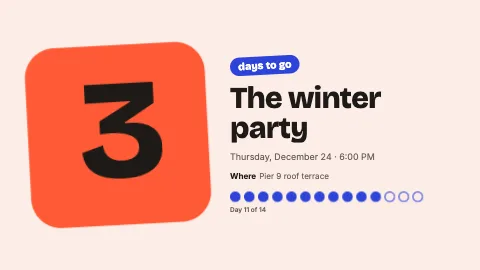
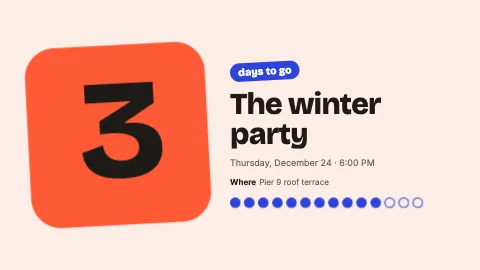
feat(countdown): the number the one lit thing; no invented figures; Night's hairline ring and ruled facts
The board's countdown (#news-design), shown in Night: the number in the accent, the one lit thing, in a hairline ring
with no ping cap; no "//" before the unit; the unit and the hours in body type; the title in the text colour; the
facts as ruled rows, the label beside the value. In every look: no invented framing (no percentage, no "Day 3 of 14";
the bar or ring says how far by itself, and only a beaten record has a caption; Corporate's scale runs from Today),
hours written without zero-padding ("3 h 0 min"; Poster's flip-clock tiles keep two digits), and the built-in fact
labels in sentence case like typed ones. Countdown 1.2.0.

Pi measurement waived by the owner (2026-11-26).

Changed region(s): [[0.4688, 0.1778, 0.9062, 0.8]]

diff --git a/templates/countdown/test/browser.test.ts b/templates/countdown/test/browser.test.ts
@@ -75,16 +75,16 @@ describe('countdown (#198)', () => {
     const done = { state: 'done', number: null, rest: null, unit: null, done: "It's here!" };
     const progress = (p: string | null) => ({ detail: 'Sunday, November 29 · 6:00 PM', progress: p });
     expect(seen).toEqual({
-      '12 days before, in days': { ...count('12', null), ...progress('Day 2 of 14') },
-      'in days and hours': { ...count('12', '03 h'), ...progress('Day 2 of 14') },
-      'in days, hours and minutes': { ...count('12', '03 h 00 min'), ...progress('Day 2 of 14') },
+      '12 days before, in days': { ...count('12', null), ...progress(null) },
+      'in days and hours': { ...count('12', '3 h'), ...progress(null) },
+      'in days, hours and minutes': { ...count('12', '3 h 0 min'), ...progress(null) },
       // On the day itself: no days to go, and the progress full.
-      'a minute and a half before, in days': { ...count('0', null), ...progress('Day 14 of 14') },
+      'a minute and a half before, in days': { ...count('0', null), ...progress(null) },
       // Rounded up: the last minute shows a minute to go, not none.
-      'a minute and a half before, in minutes': { ...count('0', '00 h 02 min'), ...progress('Day 14 of 14') },
+      'a minute and a half before, in minutes': { ...count('0', '0 h 2 min'), ...progress(null) },
       'at the target': { ...done, ...progress(null) },
       'a day after': { ...done, ...progress(null) },
-      'after, with no done text': { ...count('0', '00 h 00 min'), ...progress(null) },
+      'after, with no done text': { ...count('0', '0 h 0 min'), ...progress(null) },
     });
   });
 
@@ -107,10 +107,10 @@ describe('countdown (#198)', () => {
       seen[name] = [r.number, r.rest, r.unit];
     }
     expect(seen).toEqual({
-      'down, over the night the clocks go back': ['2', '00 h 00 min', 'days to go'],
+      'down, over the night the clocks go back': ['2', '0 h 0 min', 'days to go'],
       'down, in days, the same night': ['2', null, 'days to go'],
-      'down, over the night the clocks go forward': ['2', '00 h', 'days to go'],
-      'up, over the night the clocks go back': ['2', '00 h 00 min', 'days since'],
+      'down, over the night the clocks go forward': ['2', '0 h', 'days to go'],
+      'up, over the night the clocks go back': ['2', '0 h 0 min', 'days since'],
       'up, in days, late in the evening': ['1', null, 'day since'],
     });
   });
@@ -120,7 +120,7 @@ describe('countdown (#198)', () => {
     // 01:30 on the night the clocks go back is its first pass, 05:30 UTC; at 01:15 on the second
     // pass (06:15 UTC) it has gone, though the wall clock is a quarter of an hour behind it.
     const f = await s.show({ look: 'corporate', target: '2026-11-01T01:30', units: minutes, doneText: '' }, Date.parse('2026-11-01T06:15:00Z'));
-    expect(await reads(f)).toMatchObject({ state: 'count', number: '0', rest: '00 h 00 min' });
+    expect(await reads(f)).toMatchObject({ state: 'count', number: '0', rest: '0 h 0 min' });
   });
 
   it("draws a countdown's progress over its last progressDays, only moving forward", async () => {
@@ -143,14 +143,14 @@ describe('countdown (#198)', () => {
     expect(seen).toEqual({
       '16 of 14': ['off', null, null],
       '15 of 14': ['off', null, null],
-      '14 of 14': ['on', 'Day 0 of 14', '0'],
-      '13 of 14': ['on', 'Day 1 of 14', String(1 / 14)],
-      '7 of 14': ['on', 'Day 7 of 14', '0.5'],
-      '1 of 14': ['on', 'Day 13 of 14', String(13 / 14)],
-      '0 of 14': ['on', 'Day 14 of 14', '1'],
+      '14 of 14': ['on', 'Today', '0'],
+      '13 of 14': ['on', 'Today', String(1 / 14)],
+      '7 of 14': ['on', 'Today', '0.5'],
+      '1 of 14': ['on', 'Today', String(13 / 14)],
+      '0 of 14': ['on', 'Today', '1'],
       '31 of 30': ['off', null, null],
-      '30 of 30': ['on', 'Day 0 of 30', '0'],
-      '29 of 30': ['on', 'Day 1 of 30', String(1 / 30)],
+      '30 of 30': ['on', 'Today', '0'],
+      '29 of 30': ['on', 'Today', String(1 / 30)],
     });
   });
 
@@ -195,15 +195,16 @@ describe('countdown (#198)', () => {
         });
       }
     expect(seen).toEqual({
-      'pop, a record of 301': ['on', 'on', '210', 'Best: 301 days', '69% of the way to the record'],
+      // The bar says how far on its own: only a beaten record has a caption.
+      'pop, a record of 301': ['on', 'on', '210', 'Best: 301 days'],
       'pop, a record of 200': ['on', 'on', '210', 'Best: 200 days', 'A new record'],
       'pop, no record': ['off', 'off', '210'],
       'poster, a record of 301': ['on', 'on', '210', 'Record to beat301days, 92 more to beat it'],
       'poster, a record of 200': ['on', 'on', '210', 'Record to beat200days, now beaten'],
       // Poster's progress is its tiles' split, which needs no record.
       'poster, no record': ['off', 'on', '210'],
-      'night, a record of 301': ['on', 'on', '210', 'record301 days', 'to beat it92 more days'],
-      'night, a record of 200': ['on', 'on', '210', 'record200 days', 'to beat itA new record'],
+      'night, a record of 301': ['on', 'on', '210', 'Record301 days', 'To beat it92 more days'],
+      'night, a record of 200': ['on', 'on', '210', 'Record200 days', 'To beat itA new record'],
       'night, no record': ['off', 'off', '210'],
       'corporate, a record of 301': ['on', 'on', '210', '210 days of 301Record', 'Record301 days', 'To beat it92 more days'],
       'corporate, a record of 200': ['on', 'on', '210', '210 days of 200Record', 'Record200 days', 'To beat itA new record'],
@@ -263,12 +264,12 @@ describe('countdown (#198)', () => {
     // Played 10 s into the minute, read at 11, 59, 61, 62 and 122 s: the minutes go down as each
     // minute turns, nothing else is written, and nothing at all once stopped.
     expect(ticks).toEqual([
-      ['days · 03h · 00m · 85%', []],
-      ['days · 03h · 00m · 85%', []],
-      ['days · 02h · 59m · 85%', ['days · 02h · 59m · 85%']],
-      ['days · 02h · 59m · 85%', []],
-      ['days · 02h · 58m · 85%', ['days · 02h · 58m · 85%']],
-      ['days · 02h · 58m · 85%', []],
+      ['days · 3 h · 0 min', []],
+      ['days · 3 h · 0 min', []],
+      ['days · 2 h · 59 min', ['days · 2 h · 59 min']],
+      ['days · 2 h · 59 min', []],
+      ['days · 2 h · 58 min', ['days · 2 h · 58 min']],
+      ['days · 2 h · 58 min', []],
     ]);
   });
 
@@ -396,10 +397,33 @@ describe('countdown (#198)', () => {
         );
       }
     }
-    // Night: the ping, two halves and the arm. Pop's wobbling tile and stickers, its pulsing dot and Corporate's breathing
+    // Night: two halves and the arm (the ping went with the board's hairline ring). Pop's wobbling tile and stickers, its pulsing dot and Corporate's breathing
     // marker are retired with D's motion (long holds, nothing bouncing on text).
-    expect(moving).toEqual({ landscape: [0, 0, 4, 0], portrait: [0, 0, 0, 0] });
+    expect(moving).toEqual({ landscape: [0, 0, 3, 0], portrait: [0, 0, 0, 0] });
   });
+
+  // The board's countdown (#news-design), shown in Night: the number the one lit thing in a hairline ring with no ping,
+  // no "//" before the unit, the title in the text colour and the facts as ruled rows.
+  for (const orientation of ['landscape', 'portrait'] as const)
+    it(`lights only Night's number, in a hairline ring, with ruled facts, ${orientation}`, async () => {
+      const s = await screen(orientation);
+      const f = await s.show({ look: 'night', target: '2026-11-29T18:00', facts: [{ label: 'Where', value: 'Pier 9 roof terrace' }] });
+      const seen = await f.evaluate(() => {
+        for (const a of document.getAnimations()) a.currentTime = 3000;
+        const style = (sel: string) => getComputedStyle(document.querySelector(sel)!);
+        const vmin = Math.min(innerWidth, innerHeight) / 100;
+        const ring = document.querySelector('.track')!.getBoundingClientRect();
+        const hole = document.querySelector('.hole')!.getBoundingClientRect();
+        return {
+          ring: Math.round(((ring.width - hole.width) / 2 / vmin) * 10) / 10,
+          ping: document.querySelectorAll('.ping').length,
+          unit: document.querySelector('.unit-row')!.textContent!.trim().startsWith('//'),
+          lit: style('.number').color !== style('.title').color && style('.title').color === style('body').color,
+          rows: [...document.querySelectorAll('.fact')].every((el) => getComputedStyle(el).display === 'grid'),
+        };
+      });
+      expect(seen).toEqual({ ring: 1.1, ping: 0, unit: false, lit: true, rows: true });
+    });
 
   it('with reduced motion, shows the final frame with nothing animating', async () => {
     const s = await screen();

diff --git a/templates/countdown/main.ts b/templates/countdown/main.ts
@@ -127,8 +127,8 @@ defineTemplate({
     const beaten = days > record;
     const more = record + 1 - days;
     const toBeat = beaten ? 'A new record' : plural(more, 'more day', 'more days');
-    const pct = share === undefined ? '' : `${Math.floor(share * 100)}%`;
-    const progressLabel = up ? (beaten ? 'A new record' : `${pct} of the way to the record`) : `Day ${span - days} of ${span}`;
+    // A bar or ring says how far with no label of its own: a percentage or "Day 3 of 14" is framing the spot never set.
+    const progressLabel = up && beaten ? 'A new record' : '';
 
     put('.title', String(data.title));
     put('.detail', up ? `Since ${when}` : when);
@@ -150,10 +150,10 @@ defineTemplate({
       row.style.setProperty('--lk-i', String(4 + list!.childElementCount));
       list!.append(row);
     };
-    if (look === 'night') fact(up ? 'since' : 'when', when, 'detail');
+    if (look === 'night') fact(up ? 'Since' : 'When', when, 'detail');
     if (look === 'night' || look === 'corporate') {
-      fact(look === 'night' ? 'record' : 'Record', plural(record, 'day', 'days'), 'record');
-      fact(look === 'night' ? 'to beat it' : 'To beat it', toBeat, 'record');
+      fact('Record', plural(record, 'day', 'days'), 'record');
+      fact('To beat it', toBeat, 'record');
     }
     if (look === 'poster') put('.band .lk-crawl', facts.map((f) => `${f.label}: ${f.value}`).join('  ·  '));
     else for (const f of facts) fact(f.label, f.value, 'facts');
@@ -162,7 +162,7 @@ defineTemplate({
       progress(look, share, {
         label: progressLabel,
         dots: up ? MAX_DOTS : Math.min(span, MAX_DOTS),
-        from: up ? `${plural(days, 'day', 'days')} of ${record.toLocaleString(ctx.locale)}` : progressLabel,
+        from: up ? `${plural(days, 'day', 'days')} of ${record.toLocaleString(ctx.locale)}` : 'Today',
         to: up ? 'Record' : date,
       });
     if (look === 'poster') tiles(units);
@@ -188,8 +188,8 @@ defineTemplate({
     if (band) crawl(band, ctx);
 
     // The figures that follow the time, written now and again by the timer whenever they change.
+    // Hours and minutes as numbers, not zero-padded for show; a flip clock's tiles keep two digits.
     const two = (n: number) => String(n).padStart(2, '0');
-    const ringPct = el('.ring') ? [pct] : [];
     show = (t: Date) => {
       const { values } = count(t);
       const set = (e: Element, text: string) => {
@@ -202,12 +202,12 @@ defineTemplate({
           e,
           values
             .slice(1)
-            .map((v, i) => `${two(v)} ${i ? 'min' : 'h'}`)
+            .map((v, i) => `${v} ${i ? 'min' : 'h'}`)
             .join(' '),
         );
       for (const e of document.querySelectorAll('.unit')) set(e, unit);
-      const sub = [values[0] === 1 ? 'day' : 'days', ...values.slice(1).map((v, i) => `${two(v)}${i ? 'm' : 'h'}`)];
-      for (const e of document.querySelectorAll('.sub')) set(e, [...sub, ...ringPct].join(' · '));
+      const sub = [values[0] === 1 ? 'day' : 'days', ...values.slice(1).map((v, i) => `${v} ${i ? 'min' : 'h'}`)];
+      for (const e of document.querySelectorAll('.sub')) set(e, sub.join(' · '));
       document.querySelectorAll('.tile .v').forEach((e, i) => set(e, i ? two(values[i]!) : values[0]!.toLocaleString(ctx.locale)));
     };
     show(now);
@@ -253,7 +253,9 @@ function progress(look: Look, share: number, { label, dots: n, from, to }: { lab
       dot.append(inner);
       dots.append(dot);
     }
-    document.querySelector('.progress-label')!.textContent = label;
+    const caption = document.querySelector('.progress-label')!;
+    if (label) caption.textContent = label;
+    else caption.remove();
   } else if (look === 'night') {
     // Two half-discs, each turned inside its own half of the circle: transforms only, no stroke.
     const angle = share * 360;

diff --git a/templates/countdown/style.css b/templates/countdown/style.css
@@ -390,9 +390,9 @@ h1 {
    the moment the left half starts. 12 o'clock is under the start cap. */
 [data-look='night'] .seam {
   position: absolute;
-  left: calc(50% - 0.2vmin);
+  left: calc(50% - 0.1vmin);
   bottom: 0;
-  width: 0.4vmin;
+  width: 0.2vmin;
   height: 8vmin;
   background: var(--lk-primary);
   animation: cd-show 0s linear calc(0.5s + var(--t1, 0s)) both;
@@ -400,25 +400,22 @@ h1 {
 [data-look='night'] .ring:not([data-past-half]) .seam {
   display: none;
 }
+/* A hairline ring: the number is the one lit thing. */
 [data-look='night'] .hole {
   position: absolute;
-  inset: 5.2vmin;
+  inset: 1.1vmin;
   border-radius: 50%;
   background: var(--lk-bg);
 }
 [data-look='night'] .cap {
   position: absolute;
   top: 0;
-  left: calc(50% - 2.6vmin);
+  left: calc(50% - 0.55vmin);
   box-sizing: border-box;
-  width: 5.2vmin;
-  height: 5.2vmin;
+  width: 1.1vmin;
+  height: 1.1vmin;
   border-radius: 50%;
   background: var(--lk-primary);
-}
-[data-look='night'] .cap.ping {
-  background: none;
-  border: 0.37vmin solid var(--lk-primary);
 }
 [data-look='night'] .arm {
   transform: rotate(var(--a, 0deg));
@@ -439,10 +436,11 @@ h1 {
 [data-look='night'] .number {
   font: var(--lk-display-weight) calc(26.9vmin * var(--size) * var(--rest-k)) / 1.04 var(--lk-font-display);
   letter-spacing: -0.04em;
+  color: var(--lk-primary-ink-large);
 }
 [data-look='night'] .sub {
-  font: 400 3.1vmin / 1.3 var(--lk-font-label);
-  color: var(--lk-accent-ink);
+  font: 500 3.7vmin / 1.3 var(--lk-font-body);
+  color: var(--lk-muted);
 }
 [data-look='night'] .done {
   font: var(--lk-display-weight) calc(10vmin * var(--fit)) / 1.1 var(--lk-font-display);
@@ -460,36 +458,38 @@ h1 {
   gap: 3.7vmin;
 }
 [data-look='night'] .unit-row {
-  font: 400 2.6vmin / 1.3 var(--lk-font-label);
-  color: var(--lk-accent-ink);
+  font: 500 3.7vmin / 1.3 var(--lk-font-body);
+  color: var(--lk-muted);
 }
 [data-look='night'] .title {
   font: 700 calc(8.9vmin * var(--lk-scale) * var(--fit)) / 1.08 var(--lk-font-display);
-  color: var(--lk-primary-ink-large);
   -webkit-line-clamp: 4;
 }
+/* The facts as ruled rows, the label beside the value. */
 [data-look='night'] .facts {
   display: flex;
-  flex-wrap: wrap;
-  gap: 1.85vmin;
+  flex-direction: column;
+  border-top: max(1px, 0.12vmin) solid var(--lk-rule-color);
 }
 [data-look='night'] .fact {
   --lk-motion: var(--lk-badge-motion);
-  max-width: 100%;
-  box-sizing: border-box;
-  display: flex;
-  flex-direction: column;
-  gap: 0.74vmin;
-  padding: 2vmin 2.8vmin;
-  border: 0.19vmin solid color-mix(in srgb, var(--lk-text) 22%, var(--lk-bg));
-  border-radius: var(--lk-radius-small);
+  display: grid;
+  grid-template-columns: 14vmin minmax(0, 1fr);
+  align-items: baseline;
+  padding: 1.8vmin 0;
+  border-bottom: max(1px, 0.12vmin) solid var(--lk-rule-color);
 }
 [data-look='night'] .fact dt {
-  font: 400 2vmin / 1.2 var(--lk-font-label);
+  min-width: 0;
+  padding-right: 2vmin;
+  overflow: hidden;
+  text-overflow: ellipsis;
+  white-space: nowrap;
+  font: 400 2.8vmin / 1.2 var(--lk-font-label);
   color: var(--lk-muted);
 }
 [data-look='night'] .fact dd {
-  font: 500 3.3vmin / 1.2 var(--lk-font-body);
+  font: 500 3.7vmin / 1.2 var(--lk-font-body);
 }
 
 /* Corporate: an annual report's page, hairlines and a light number on a twelve-column grid. */

diff --git a/templates/countdown/index.html b/templates/countdown/index.html
@@ -52,7 +52,7 @@
     <div class="ring" data-show="progress">
       <div class="track"><div class="half r"><i class="fill a"></i></div><div class="half l"><i class="fill b"></i></div><i class="seam"></i><div class="hole"></div></div>
       <i class="cap start"></i>
-      <div class="arm"><i class="cap ping lk-ping"></i><i class="cap end"></i></div>
+      <div class="arm"><i class="cap end"></i></div>
     </div>
     <div class="centre">
       <div class="lk-mask"><p class="number lk-text lk-d4"></p></div>
@@ -61,7 +61,7 @@
     </div>
   </div>
   <div class="copy">
-    <div class="lk-mask"><p class="unit-row lk-text lk-d2">// <span class="unit"></span></p></div>
+    <div class="lk-mask"><p class="unit-row lk-text lk-d2"><span class="unit"></span></p></div>
     <div class="lk-mask title-box"><h1 class="title lk-text lk-d3">The winter party</h1></div>
     <dl class="facts"></dl>
   </div>

diff --git a/packages/template-test/README.md b/packages/template-test/README.md
@@ -27,7 +27,7 @@ Every template: the update lifecycle, above, and D's motion in both orientations
 - **alert** (#200): every severity reads as painted, in its own colours whatever the kit; every field at its longest fits with nothing overlapping, in every toggle state and orientation; each toggle is marked and removes its part, and without the QR code the type steps up; long copy steps the type down until it fits; emergency and warning drop in hard, advisory and notice fade, and only emergency pulses, at most once every 2 s; with reduced motion nothing animates.
 - **announcement** (#197), at 1920x1080: in each look, both orientations, with each toggle off alone, all off, and every text field at its `maxLength` (one 80-letter word too), no block leaves the screen or overlaps another, no text is cut sideways without an ellipsis and no clamped text shows more than its lines; every text reads as painted with no kit, the demo kit and a light kit; each toggle is marked and what is off removed, the headline steps up without the photo and the footer closes up without the QR code (Night's headline takes its column); an element with nothing to show is left out; the defaults play at the look's own type sizes; the QR code is at least 30vmin, black on white in every look and kit, and reads back (jsQR) as a 100-character address; every element has an intro and an outro ending with the spot, only `transform` and `opacity` move, on at most 50 elements; with reduced motion nothing animates.
 - **clock**: the time and date from `init`'s clock, not the device's; the greeting, in the accent, on its backdrop under every brand kit.
-- **countdown** (#198), from fixed clocks: the count before, at and after its target, in days and in hours and minutes; wall-clock days across both DST changes in New York; zeros once the target has passed, in the hour the clocks repeat too; the progress over the last `progressDays`, only moving forward; a prepare superseded by a new init while its faces load leaves the new document alone; counting up with a record (to beat, and beaten) and without one; Night's ring as two half-discs turned by transforms; figures that change only as their unit turns, from one timer that `stop` clears, at the same width whatever their digits; in every look, with the longest copy, each toggle off and all off, in both orientations: no text past the screen, its clamp or its box, painted over or overlapping another; every text reads as painted with no kit, the demo kit and a light kit; each toggle marked and its element removed with the title stepped up; intros and outros timed from `--sf-duration` on `transform` and `opacity` only, within the cap; ambient motion and Night's sweep still in portrait; nothing moving under reduced motion.
+- **countdown** (#198), from fixed clocks: the count before, at and after its target, in days and in hours and minutes; wall-clock days across both DST changes in New York; zeros once the target has passed, in the hour the clocks repeat too; the progress over the last `progressDays`, only moving forward; a prepare superseded by a new init while its faces load leaves the new document alone; counting up with a record (to beat, and beaten) and without one; Night's ring as two half-discs turned by transforms; figures that change only as their unit turns, from one timer that `stop` clears, at the same width whatever their digits; in every look, with the longest copy, each toggle off and all off, in both orientations: no text past the screen, its clamp or its box, painted over or overlapping another; every text reads as painted with no kit, the demo kit and a light kit; each toggle marked and its element removed with the title stepped up; intros and outros timed from `--sf-duration` on `transform` and `opacity` only, within the cap; ambient motion and Night's sweep still in portrait; no percentage, "Day n of" or zero-padded hours; Night's number the one lit thing in a hairline ring with no ping, no "//", the title in the text colour and ruled facts; nothing moving under reduced motion.
 - **cstore-promo**: the badge's text on its disc (4.5:1, 3:1 for the large points figure) and the promo line, in the accent, on its backdrop, under every brand kit.
 - **info-frame** (#201), at 1920x1080: in each look and orientation, in every rail, crawl and toggle setting at the longest copy, no text runs off the screen, past its clamp, sideways out of a clamped box, out of a box that clips it or off its card, nothing is painted over a text, and no two texts, the logo or a weather glyph overlap; an unbroken word at each text field's `maxLength` wraps or truncates without sideways clipping; with the defaults nothing is shrunk; every text reads on an opaque card across all 288 rail × crawl × toggle settings, and as painted in every look and layout, with no kit, the demo kit and a light kit; a logo-only rail is dropped, without a rail the clock and the weather go onto the photo, and type grows into what is left; each toggle is marked and removes its part; the time, date and next three days from `init`'s clock and zone, in 12 and 24 hours; the minute turns with Playwright's clock, the time written at most once a second; weather words from the code, day and night, and each look's forecast; the crawl's speed; the photo unpainted until play; intros and outros ending with the spot, only `transform` and `opacity`, at most 50 elements, in portrait only the crawl looping; with reduced motion nothing animates.
 - **menu-board**: the tags' text on their fill and the prices, in the accent, on their card, light and dark, under every brand kit.
